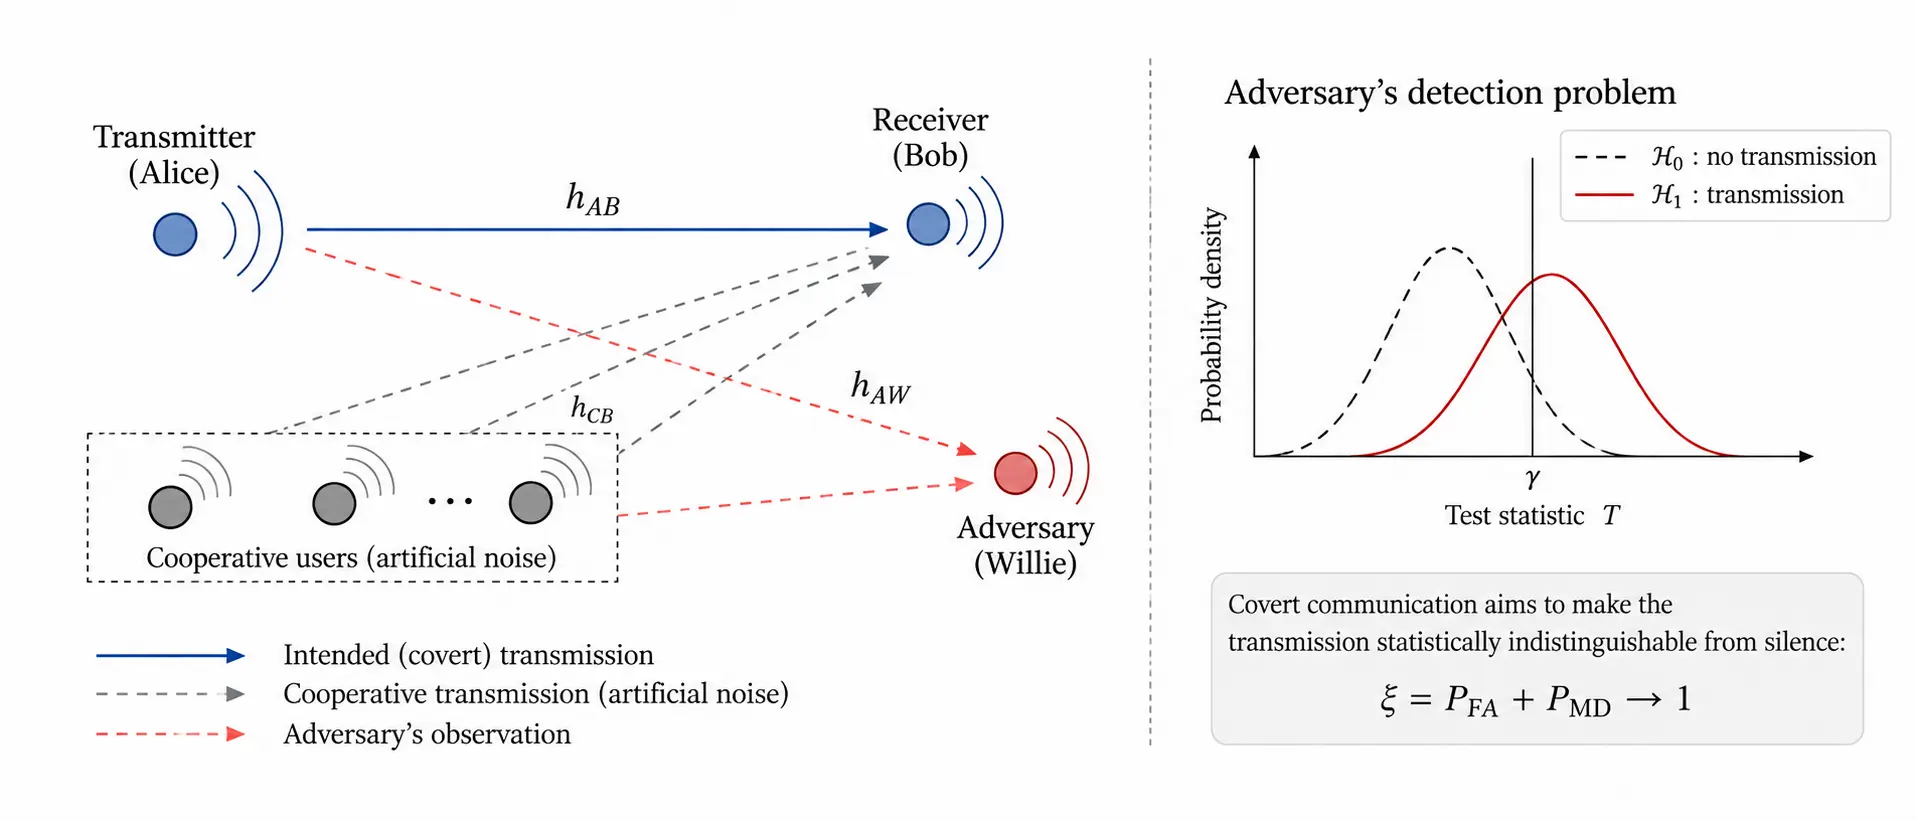
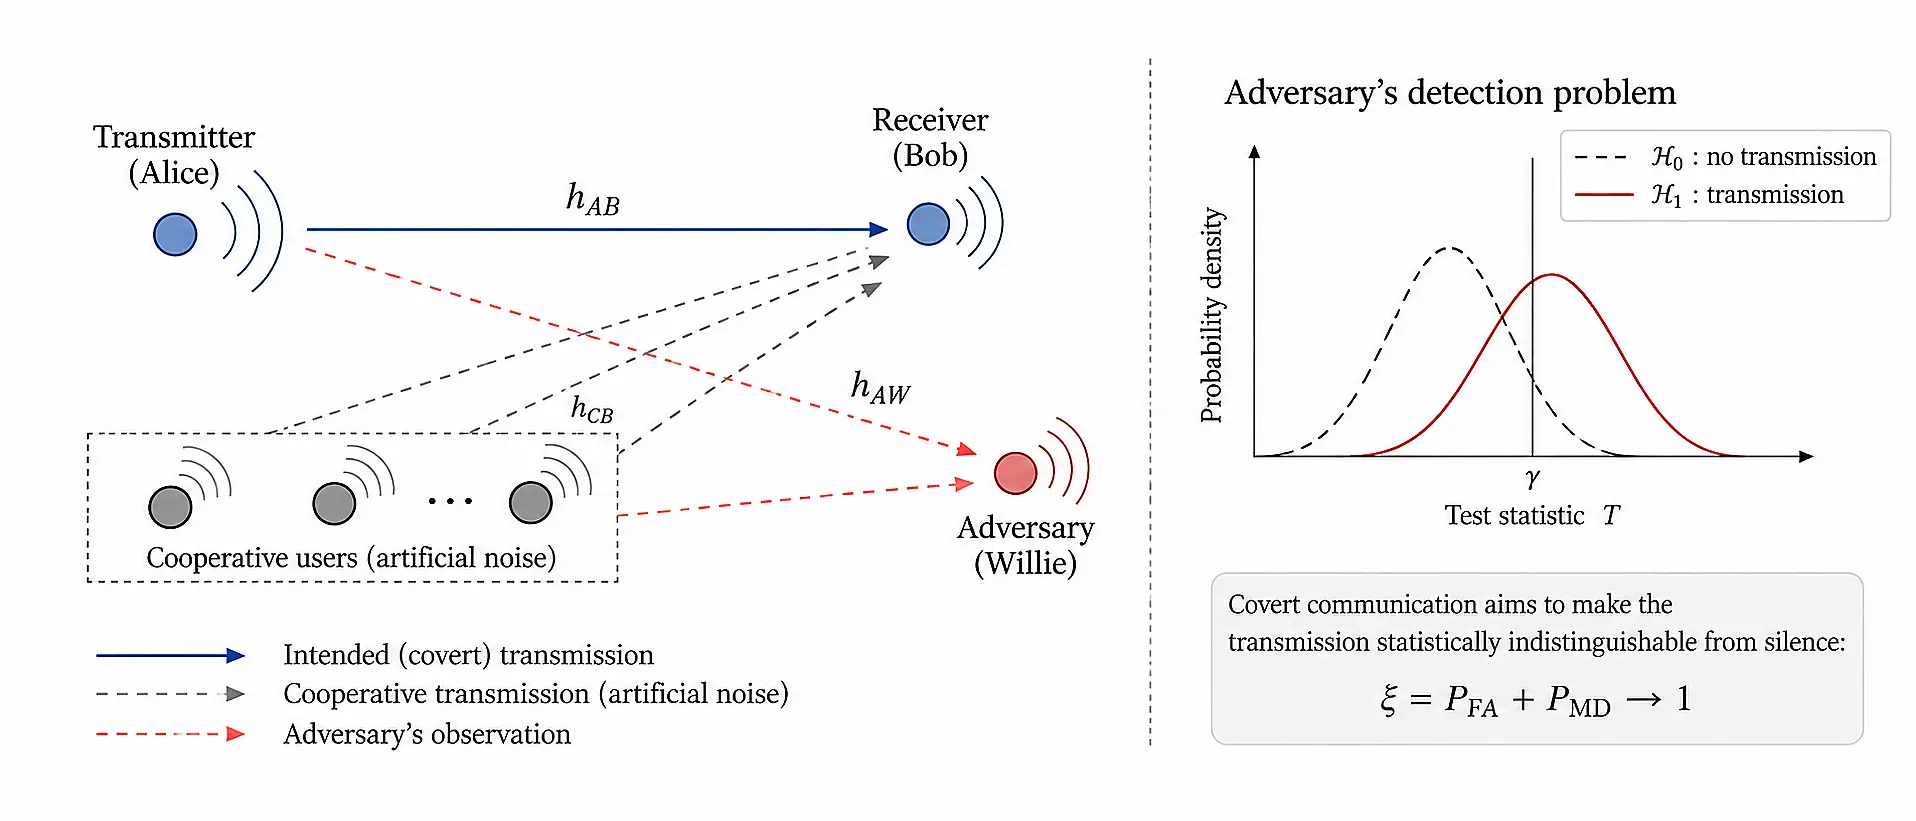
Apply a mild unsharp mask to the research figures
Claude-Session: https://claude.ai/code/session_01GNcS1kmZvkTUuwnAtVXsAb

diff --git a/research.html b/research.html
@@ -91,13 +91,13 @@
       </div>
       <div class="objective-join" aria-hidden="true"><span></span><i>↓</i></div>
       <div class="design-outcome"><b>Secure communication system design</b><span>Each of the four objectives is achieved in the end by the design of the communication system. We decide how much power to send, which users to schedule, where to place a relay, and which threshold to use, so that the objective is met. The figure below shows the whole path, from the systems we study, through the physical layer, to the four objectives.</span></div>
-      <figure class="systems-figure"><a href="assets/img/Overview.png" target="_blank" rel="noopener" title="Open full-size figure"><picture><source type="image/webp" srcset="assets/img/research/overview.webp?v=2"><img src="assets/img/research/overview.png?v=2" alt="ROOT Lab research overview: diverse communication systems, the physical layer as a source of observable information, physical-layer security resources as the root of trust, and the four security objectives" loading="lazy" width="1774" height="887"></picture></a></figure>
+      <figure class="systems-figure"><a href="assets/img/Overview.png" target="_blank" rel="noopener" title="Open full-size figure"><picture><source type="image/webp" srcset="assets/img/research/overview.webp?v=3"><img src="assets/img/research/overview.png?v=3" alt="ROOT Lab research overview: diverse communication systems, the physical layer as a source of observable information, physical-layer security resources as the root of trust, and the four security objectives" loading="lazy" width="1774" height="887"></picture></a></figure>
     </div>
   </section>
 
   <section class="architecture-section" id="covert-communication">
     <div class="wrap axis">
-      <div class="axis-copy"><span class="architecture-index">01 · Existence</span><h2>Covert Communication</h2><p>Encryption hides what you say. Covert communication hides that you said anything at all. Imagine a room where someone is listening for any sound. The goal is to talk to a friend so quietly, and so naturally, that the listener cannot tell your voice from the background noise, while your friend still hears every word.</p><p>In a wireless network the background noise is real. Other users, interference, and the fact that the eavesdropper does not know who is active all help to hide a transmission. We study how much can be sent this way, and how to choose transmit power, helping users, and relay positions so that the transmission stays hidden but still useful.</p><figure class="axis-theory-figure"><a href="assets/img/Covert.png" target="_blank" rel="noopener" title="Open full-size figure"><picture><source type="image/webp" srcset="assets/img/research/covert.webp?v=2"><img src="assets/img/research/covert.png?v=2" alt="" loading="lazy" width="1916" height="821"></picture></a></figure></div>
+      <div class="axis-copy"><span class="architecture-index">01 · Existence</span><h2>Covert Communication</h2><p>Encryption hides what you say. Covert communication hides that you said anything at all. Imagine a room where someone is listening for any sound. The goal is to talk to a friend so quietly, and so naturally, that the listener cannot tell your voice from the background noise, while your friend still hears every word.</p><p>In a wireless network the background noise is real. Other users, interference, and the fact that the eavesdropper does not know who is active all help to hide a transmission. We study how much can be sent this way, and how to choose transmit power, helping users, and relay positions so that the transmission stays hidden but still useful.</p><figure class="axis-theory-figure"><a href="assets/img/Covert.png" target="_blank" rel="noopener" title="Open full-size figure"><picture><source type="image/webp" srcset="assets/img/research/covert.webp?v=3"><img src="assets/img/research/covert.png?v=3" alt="" loading="lazy" width="1916" height="821"></picture></a></figure></div>
       <aside class="axis-aside">
         <div class="axis-aside-block"><b>What we measure, what we tune</b><p>Covertness is measured by the warden&rsquo;s detection error probability and the covert rate. The design knobs are power allocation, relay placement, RIS phases, and user selection.</p></div>
         <div class="axis-aside-block"><b>Recent work</b><ul><li><span>Channel Correlation in Multi-User Covert Communication: Friend or Foe?</span> <em>IEEE TIFS, 2024</em></li><li><span>Multiuser Cooperation for Covert Communication Under Quasi-Static Fading</span> <em>IEEE TIFS, 2023</em></li><li><span>Statistical Indistinguishability in Multi-User Covert Communications without Secret Information</span> <em>Mathematics, 2026</em></li><li><span>Covert Communication with Spatially Heterogeneous User Cooperation Against a Geometry-Aware Warden</span> <em>submitted to IEEE TIFS</em></li><li><span>Toward Awareness-Driven Covert ISAC: An Agentic AI Framework Beyond Fixed Tradeoff Boundaries</span> <em>submitted to IEEE Wireless Communications Magazine</em></li><li><span>Method, Apparatus, and System for Achieving Covertness Through Active Cooperative Subset Selection Without Prior Secret Information</span> <em>patent applications, Korea and US, 2026</em></li><li><span>Self-Evolving Covert Distributed AI Networks Based on Sensing, Communication, and Computation Convergence</span> <em>NRF project, Mar. 2026 – Feb. 2030</em></li></ul><a href="publications.html">All publications</a></div>
@@ -107,7 +107,7 @@
 
   <section class="paper architecture-section" id="authentication">
     <div class="wrap axis">
-      <div class="axis-copy"><span class="architecture-index">02 · Authenticity</span><h2>Physical-Layer Authentication</h2><p>When a message arrives, how do you know who really sent it? A password or a certificate proves that someone holds a secret. It does not prove that the radio in front of you is the one it claims to be. Physical-layer authentication looks at the signal itself, the way you recognize a friend by their voice and not only by what they say.</p><p>Every radio has small hardware imperfections, every path through the air leaves its own pattern, and a moving transmitter must show the motion that matches its claimed position. We collect these clues from the received signal and decide, with a simple accept-or-reject test, whether the sender is genuine.</p><figure class="axis-theory-figure"><a href="assets/img/PLA.png" target="_blank" rel="noopener" title="Open full-size figure"><picture><source type="image/webp" srcset="assets/img/research/pla.webp?v=2"><img src="assets/img/research/pla.png?v=2" alt="" loading="lazy" width="1915" height="821"></picture></a></figure></div>
+      <div class="axis-copy"><span class="architecture-index">02 · Authenticity</span><h2>Physical-Layer Authentication</h2><p>When a message arrives, how do you know who really sent it? A password or a certificate proves that someone holds a secret. It does not prove that the radio in front of you is the one it claims to be. Physical-layer authentication looks at the signal itself, the way you recognize a friend by their voice and not only by what they say.</p><p>Every radio has small hardware imperfections, every path through the air leaves its own pattern, and a moving transmitter must show the motion that matches its claimed position. We collect these clues from the received signal and decide, with a simple accept-or-reject test, whether the sender is genuine.</p><figure class="axis-theory-figure"><a href="assets/img/PLA.png" target="_blank" rel="noopener" title="Open full-size figure"><picture><source type="image/webp" srcset="assets/img/research/pla.webp?v=3"><img src="assets/img/research/pla.png?v=3" alt="" loading="lazy" width="1915" height="821"></picture></a></figure></div>
       <aside class="axis-aside">
         <div class="axis-aside-block"><b>What we measure, what we tune</b><p>Performance is measured by the false-alarm and missed-detection probabilities, <span class="katex"><span class="katex-html" aria-hidden="true"><span class="base"><span class="strut" style="height:0.8333em;vertical-align:-0.15em;"></span><span class="mord"><span class="mord mathnormal" style="margin-right:0.13889em;">P</span><span class="msupsub"><span class="vlist-t vlist-t2"><span class="vlist-r"><span class="vlist" style="height:0.3361em;"><span style="top:-2.55em;margin-left:-0.1389em;margin-right:0.05em;"><span class="pstrut" style="height:2.7em;"></span><span class="sizing reset-size6 size3 mtight"><span class="mord mtight"><span class="mord mtight"><span class="mord mathrm mtight">fa</span></span></span></span></span></span><span class="vlist-s"></span></span><span class="vlist-r"><span class="vlist" style="height:0.15em;"><span></span></span></span></span></span></span></span></span></span> and <span class="katex"><span class="katex-html" aria-hidden="true"><span class="base"><span class="strut" style="height:0.8333em;vertical-align:-0.15em;"></span><span class="mord"><span class="mord mathnormal" style="margin-right:0.13889em;">P</span><span class="msupsub"><span class="vlist-t vlist-t2"><span class="vlist-r"><span class="vlist" style="height:0.3361em;"><span style="top:-2.55em;margin-left:-0.1389em;margin-right:0.05em;"><span class="pstrut" style="height:2.7em;"></span><span class="sizing reset-size6 size3 mtight"><span class="mord mtight"><span class="mord mtight"><span class="mord mathrm mtight">md</span></span></span></span></span></span><span class="vlist-s"></span></span><span class="vlist-r"><span class="vlist" style="height:0.15em;"><span></span></span></span></span></span></span></span></span></span>. The design knobs are which features to use, how to set thresholds, and how to shape the challenge.</p></div>
         <div class="axis-aside-block"><b>Recent work</b><ul><li><span>Robust Single-Packet Physical Layer Authentication for UAVs: A Spatial Challenge-Response Approach</span> <em>IEEE Wireless Communications Letters, 2026</em></li><li><span>Challenge-Response Authentication for LEO Satellite Channels: Exploiting Orbit-Specific Uniqueness</span> <em>under review in IEEE Wireless Communications Magazine</em></li><li><span>Spatial Challenge-Response Authentication for UAV SWIPT: Joint Location and Beamforming Design</span> <em>in preparation</em></li><li><span>Secrecy Outage Analysis of Cell-Free Massive MIMO Systems with Probabilistic Access Point Authentication</span> <em>in preparation</em></li><li><span>Challenge-Response-Based Mapless Physical-Layer Authentication for Underwater Acoustic Channels Using Compressive Sensing and Conditional Variational Autoencoders</span> <em>in preparation</em></li><li><span>Intelligent Physical Layer Authentication Method and Apparatus for Drone Networks to Realize Zero-Trust Architecture</span> <em>patent applications, Korea and PCT, 2026</em></li></ul><a href="publications.html">All publications</a></div>
@@ -117,7 +117,7 @@
 
   <section class="architecture-section" id="key-generation">
     <div class="wrap axis">
-      <div class="axis-copy"><span class="architecture-index">03 · Secret Key</span><h2>Physical-Layer Key Generation</h2><p>Two people who want to share a secret usually have to send it somehow, and anything sent can be overheard. Physical-layer key generation avoids sending the secret at all. The wireless channel between two radios changes randomly over time, and both radios see almost the same changes, while an eavesdropper standing somewhere else sees different ones. The two sides derive the same key from these shared observations instead of transmitting the key itself. What they do exchange in public carries no information about the key.</p><p>Both sides measure the channel, turn the measurement into bits, and correct the few bits that disagree. How many key bits per second this gives depends on how fast the channel changes, so mobility, how often the channel is probed, and surfaces that stir the channel on purpose are all part of the design.</p><figure class="axis-theory-figure"><a href="assets/img/PLKG.png" target="_blank" rel="noopener" title="Open full-size figure"><picture><source type="image/webp" srcset="assets/img/research/plkg.webp?v=2"><img src="assets/img/research/plkg.png?v=2" alt="" loading="lazy" width="1916" height="821"></picture></a></figure></div>
+      <div class="axis-copy"><span class="architecture-index">03 · Secret Key</span><h2>Physical-Layer Key Generation</h2><p>Two people who want to share a secret usually have to send it somehow, and anything sent can be overheard. Physical-layer key generation avoids sending the secret at all. The wireless channel between two radios changes randomly over time, and both radios see almost the same changes, while an eavesdropper standing somewhere else sees different ones. The two sides derive the same key from these shared observations instead of transmitting the key itself. What they do exchange in public carries no information about the key.</p><p>Both sides measure the channel, turn the measurement into bits, and correct the few bits that disagree. How many key bits per second this gives depends on how fast the channel changes, so mobility, how often the channel is probed, and surfaces that stir the channel on purpose are all part of the design.</p><figure class="axis-theory-figure"><a href="assets/img/PLKG.png" target="_blank" rel="noopener" title="Open full-size figure"><picture><source type="image/webp" srcset="assets/img/research/plkg.webp?v=3"><img src="assets/img/research/plkg.png?v=3" alt="" loading="lazy" width="1916" height="821"></picture></a></figure></div>
       <aside class="axis-aside">
         <div class="axis-aside-block"><b>What we measure, what we tune</b><p>We track the key generation rate and the key disagreement rate. The design knobs are altitude and speed, RIS use, probing rate, and frequency band.</p></div>
         <div class="axis-aside-block"><b>Recent work</b><ul><li><span>Motion and Channel Probing Co-Design for Physical-Layer Key Generation in UAV Communications</span> <em>in preparation</em></li></ul><a href="publications.html">All publications</a></div>
@@ -127,7 +127,7 @@
 
   <section class="paper architecture-section" id="differential-privacy">
     <div class="wrap axis">
-      <div class="axis-copy"><span class="architecture-index">04 · Data Privacy</span><h2>Physical-Layer-Aided Differential Privacy</h2><p>Many devices, such as phones or sensors, can train a shared model by sending small updates to a server. The problem is that an update can reveal something about the person who sent it. Differential privacy is the standard way to limit this. Enough noise is added that no single person&rsquo;s data can be picked out of the result.</p><p>A wireless system has several physical resources that can help make results hard to tell apart in this way: channel noise, the superposition of signals that are sent at the same time, artificial noise, beamforming, and the way power and time slots are allocated. We design these resources together with the communication or learning task, so that a formal privacy guarantee holds without giving up more accuracy than necessary.</p><figure class="axis-theory-figure"><a href="assets/img/PLDP.png" target="_blank" rel="noopener" title="Open full-size figure"><picture><source type="image/webp" srcset="assets/img/research/pldp.webp?v=2"><img src="assets/img/research/pldp.png?v=2" alt="" loading="lazy" width="1942" height="809"></picture></a></figure></div>
+      <div class="axis-copy"><span class="architecture-index">04 · Data Privacy</span><h2>Physical-Layer-Aided Differential Privacy</h2><p>Many devices, such as phones or sensors, can train a shared model by sending small updates to a server. The problem is that an update can reveal something about the person who sent it. Differential privacy is the standard way to limit this. Enough noise is added that no single person&rsquo;s data can be picked out of the result.</p><p>A wireless system has several physical resources that can help make results hard to tell apart in this way: channel noise, the superposition of signals that are sent at the same time, artificial noise, beamforming, and the way power and time slots are allocated. We design these resources together with the communication or learning task, so that a formal privacy guarantee holds without giving up more accuracy than necessary.</p><figure class="axis-theory-figure"><a href="assets/img/PLDP.png" target="_blank" rel="noopener" title="Open full-size figure"><picture><source type="image/webp" srcset="assets/img/research/pldp.webp?v=3"><img src="assets/img/research/pldp.png?v=3" alt="" loading="lazy" width="1942" height="809"></picture></a></figure></div>
       <aside class="axis-aside">
         <div class="axis-aside-block"><b>What we measure, what we tune</b><p>Privacy is measured by the <span class="katex"><span class="katex-html" aria-hidden="true"><span class="base"><span class="strut" style="height:1em;vertical-align:-0.25em;"></span><span class="mopen">(</span><span class="mord mathnormal">ε</span><span class="mpunct">,</span><span class="mspace" style="margin-right:0.1667em;"></span><span class="mord mathnormal" style="margin-right:0.03785em;">δ</span><span class="mclose">)</span></span></span></span> parameters of differential privacy, and we check it together with the accuracy of the learned model. The design knobs are power control, beamforming, user scheduling, artificial noise, and over-the-air aggregation.</p></div>
         <div class="axis-aside-block"><b>Recent work</b><ul><li><span>DPRIMO-FL: Artificial Noise Assisted Differentially Private MIMO Over-the-Air Federated Learning</span> <em>in preparation</em></li><li><span>Privacy-Preserving and Energy-Efficient Wearable Cardiac Diagnosis via On-Chip Compressive Sensing</span> <em>under review in Nano-Micro Letters</em></li><li><span>Self-Evolving Covert Distributed AI Networks Based on Sensing, Communication, and Computation Convergence</span> <em>NRF project, Mar. 2026 – Feb. 2030</em></li></ul><a href="publications.html">All publications</a></div>

diff --git a/scripts/optimize_figures.py b/scripts/optimize_figures.py
@@ -27,6 +27,6 @@ for src, dst in PAIRS.items():
     src_path = os.path.join("assets/img", src)
     png = os.path.join("assets/img/research", dst + ".png")
     webp = os.path.join("assets/img/research", dst + ".webp")
-    subprocess.run(["convert", src_path, "-strip", "-define", "png:compression-level=9", png], check=True)
-    subprocess.run(["convert", src_path, "-strip", "-quality", "96", webp], check=True)
+    subprocess.run(["convert", src_path, "-unsharp", "0x0.8+2.0+0.02", "-strip", "-define", "png:compression-level=9", png], check=True)
+    subprocess.run(["convert", src_path, "-unsharp", "0x0.8+2.0+0.02", "-strip", "-quality", "96", webp], check=True)
     print(f"{png}: {os.path.getsize(png) // 1024} KB, {webp}: {os.path.getsize(webp) // 1024} KB")
